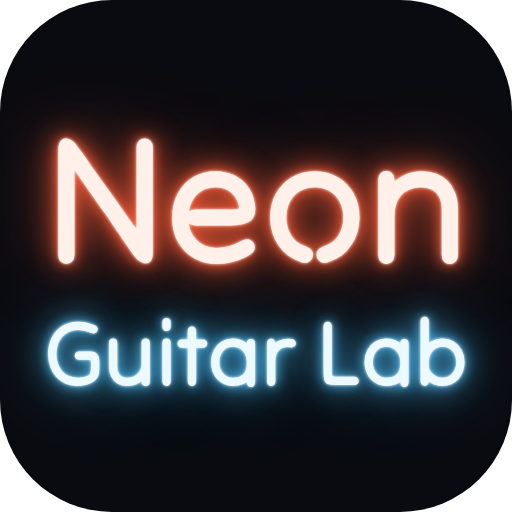
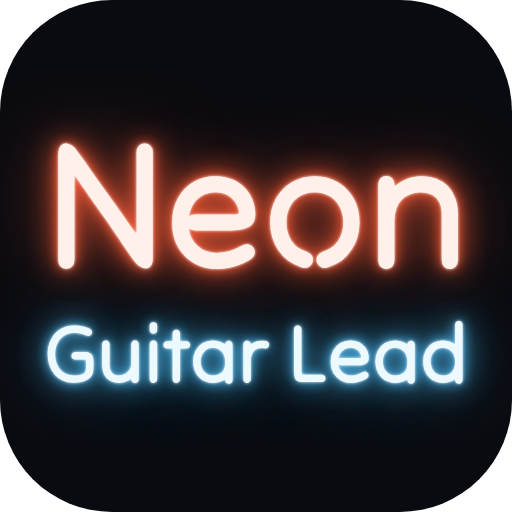
Umbenennung in NeonGuitarLead, Statistik und Lick-Editor in den Optionen
Neuer Name auf der Seite, im Web-Manifest, in den Icons und in der
Android-App. Die App-Kennung bleibt gleich, damit ein Update den
Fortschritt behält.

Claude-Session: https://claude.ai/code/session_01UqSbTyefg373xBBtws1897

diff --git a/index.html b/index.html
@@ -4,7 +4,7 @@
 <meta charset="utf-8">
 <meta name="viewport" content="width=device-width, initial-scale=1">
 <meta name="robots" content="noindex, nofollow, noarchive">
-<title>NeonGuitarLab</title>
+<title>NeonGuitarLead</title>
 <style>
 /* fonts are served from this site itself, nothing is loaded from other servers */
 @font-face{font-family:"Bricolage Grotesque";font-style:normal;font-weight:400 800;font-display:swap;src:url(fonts/bricolage-grotesque-latin-opsz-normal.woff2) format("woff2")}
@@ -332,7 +332,7 @@ textarea{width:100%;min-height:84px;background:var(--surface);color:var(--text);
 
 <div id="home">
   <header class="top">
-    <div class="brand"><b class="sign" aria-label="NeonGuitarLab"><i>Neon</i> <em>Guitar Lab</em></b></div>
+    <div class="brand"><b class="sign" aria-label="NeonGuitarLead"><i>Neon</i> <em>Guitar Lead</em></b></div>
     <button class="gear" id="gearBtn" type="button" data-go="optionen" aria-label="Einstellungen">
       <svg viewBox="0 0 24 24" aria-hidden="true"><circle cx="12" cy="12" r="6.4"/><circle cx="12" cy="12" r="2.6"/><path d="M12 2.4v3.2M12 18.4v3.2M2.4 12h3.2M18.4 12h3.2M5.2 5.2l2.3 2.3M16.5 16.5l2.3 2.3M5.2 18.8l2.3-2.3M16.5 7.5l2.3-2.3"/></svg>
     </button>
@@ -371,10 +371,6 @@ textarea{width:100%;min-height:84px;background:var(--surface);color:var(--text);
     <p class="quiet" id="testLine" hidden>Neu hier? Der Einstufungstest legt in wenigen Minuten dein Starttempo fest. <button class="ghost" id="testNow" type="button" style="margin-left:6px">Test starten</button> <button class="ghost" id="testLater" type="button">Später</button></p>
     <p class="quiet" id="revLine" hidden><span id="revTxt"></span> <button class="ghost" id="revBtn" type="button" style="margin-left:6px">Kurz wiederholen</button></p>
     <p class="quiet" id="backupLine" hidden><span id="backupTxt"></span> <button class="ghost" id="backupBtn" type="button" style="margin-left:6px">Jetzt sichern</button></p>
-    <details class="fold" id="statFold" style="margin-top:6px">
-      <summary>Statistik</summary>
-      <div id="statBox"></div>
-    </details>
   </section>
 
   <section class="view" data-view="licks">
@@ -382,7 +378,6 @@ textarea{width:100%;min-height:84px;background:var(--surface);color:var(--text);
     <div class="legend" id="legend"></div>
     <p class="note">Höchstens vier Licks sind gleichzeitig in Arbeit. Tippe eines an, um mehr zu sehen.</p>
     <div id="lickBox"></div>
-    <div class="toolrow"><button class="ghost" id="newLick" type="button">Eigenes Lick anlegen</button></div>
     <details class="fold">
       <summary>Rhythmus ausprobieren</summary>
       <p class="note">Kurze Runden ohne Bewertung mit dem heutigen Lick.</p>
@@ -474,6 +469,7 @@ textarea{width:100%;min-height:84px;background:var(--surface);color:var(--text);
       <div><div class="lbl">Hör-Moment<small>Zwei Phrasen zum Nachspielen am Ende der täglichen Einheit, sobald du eine Position kennst.</small></div><button class="switch" role="switch" id="swEar" type="button" aria-label="Hör-Moment"></button></div>
       <div><div class="lbl">Griffbrett anzeigen<small>Ein schmaler Streifen unter dem Tab.</small></div><button class="switch" role="switch" id="swFret" type="button" aria-label="Griffbrett anzeigen"></button></div>
       <div><div class="lbl">Einstufungstest<small>Steigt in 5er-Schritten, bis es nicht mehr sauber ist. Legt das Tempo deiner Licks neu fest.</small></div><button class="ghost" id="testBtn" type="button">Test starten</button></div>
+      <div><div class="lbl">Eigenes Lick<small>Ein eigenes Lick eintippen oder einspielen. Es erscheint danach unter Licks.</small></div><button class="ghost" id="newLick" type="button">Anlegen</button></div>
       <div><div class="lbl">Fortschritt übertragen<small id="syncMsg">Der Fortschritt liegt auf diesem Gerät.</small></div>
         <div style="display:flex;gap:8px;flex-wrap:wrap"><button class="ghost" id="exportBtn" type="button">Kopieren</button><button class="ghost" id="importBtn" type="button">Einfügen</button></div></div>
       <div id="ioBox" hidden style="display:block">
@@ -482,10 +478,14 @@ textarea{width:100%;min-height:84px;background:var(--surface);color:var(--text);
       </div>
       <div><div class="lbl">Fortschritt löschen<small>Setzt alle Licks auf den Anfang zurück.</small></div><button class="ghost" id="resetBtn" type="button">Löschen</button></div>
     </div>
-    <details class="fold" id="privacy" style="margin-top:22px">
+    <details class="fold" id="statFold" style="margin-top:22px">
+      <summary>Statistik</summary>
+      <div id="statBox"></div>
+    </details>
+    <details class="fold" id="privacy">
       <summary>Datenschutz</summary>
       <div class="legal">
-        <p><b>Kurz gesagt:</b> NeonGuitarLab sammelt keine Daten über dich. Es gibt keine Anmeldung, keine Cookies, keine Werbung und keine Auswertung deines Verhaltens.</p>
+        <p><b>Kurz gesagt:</b> NeonGuitarLead sammelt keine Daten über dich. Es gibt keine Anmeldung, keine Cookies, keine Werbung und keine Auswertung deines Verhaltens.</p>
         <p><b>Mikrofon.</b> Für Tonerkennung und Stimmgerät fragt die App nach dem Mikrofon. Der Klang wird ausschließlich in deinem Gerät ausgewertet. Er wird weder aufgezeichnet noch gespeichert noch übertragen. Du kannst die Freigabe jederzeit in deinem Browser zurücknehmen; die App lässt sich dann mit dem Knopf „Gespielt“ weiter nutzen.</p>
         <p><b>Fortschritt.</b> Dein Übestand, deine Einstellungen und deine eigenen Licks liegen im Speicher deines Browsers auf diesem Gerät (Local Storage). Das ist für die Funktion der App nötig. Niemand außer dir hat darauf Zugriff. Mit „Fortschritt löschen“ oder dem Löschen der Website-Daten im Browser entfernst du alles.</p>
         <p><b>Hosting.</b> Die Seite wird über GitHub Pages ausgeliefert, einen Dienst der GitHub, Inc. (USA). Beim Aufruf verarbeitet GitHub technisch notwendige Verbindungsdaten wie deine IP-Adresse, um die Seite auszuliefern und den Dienst abzusichern. Grundlage ist das berechtigte Interesse an einem sicheren Betrieb (Art. 6 Abs. 1 lit. f DSGVO). Näheres steht in der Datenschutzerklärung von GitHub.</p>

diff --git a/sw.js b/sw.js
@@ -1,5 +1,5 @@
 // NeonGuitarLab: keeps the app usable offline. Network first, cache as fallback, so updates arrive on the next visit.
-const CACHE = "ngl-v31";
+const CACHE = "ngl-v32";
 const SHELL = ["./", "index.html", "manifest.webmanifest", "icon-192.png", "icon-512.png", "icon-maskable-512.png", "fonts/bricolage-grotesque-latin-opsz-normal.woff2", "fonts/ibm-plex-mono-latin-500-normal.woff2", "fonts/ibm-plex-mono-latin-600-normal.woff2", "fonts/tilt-neon-latin-400-normal.woff2"];
 self.addEventListener("install", e => { e.waitUntil(caches.open(CACHE).then(c => c.addAll(SHELL)).then(() => self.skipWaiting())); });
 self.addEventListener("activate", e => { e.waitUntil(caches.keys().then(ks => Promise.all(ks.filter(k => k !== CACHE).map(k => caches.delete(k)))).then(() => self.clients.claim())); });

diff --git a/README.md b/README.md
@@ -1,4 +1,4 @@
-# NeonGuitarLab
+# NeonGuitarLead
 
 Gitarren-Übe-App für das Solospiel mit einzelnen Tönen: Tempo und Technik, Orientierung auf dem Griffbrett und das Vokabular dafür.
 
